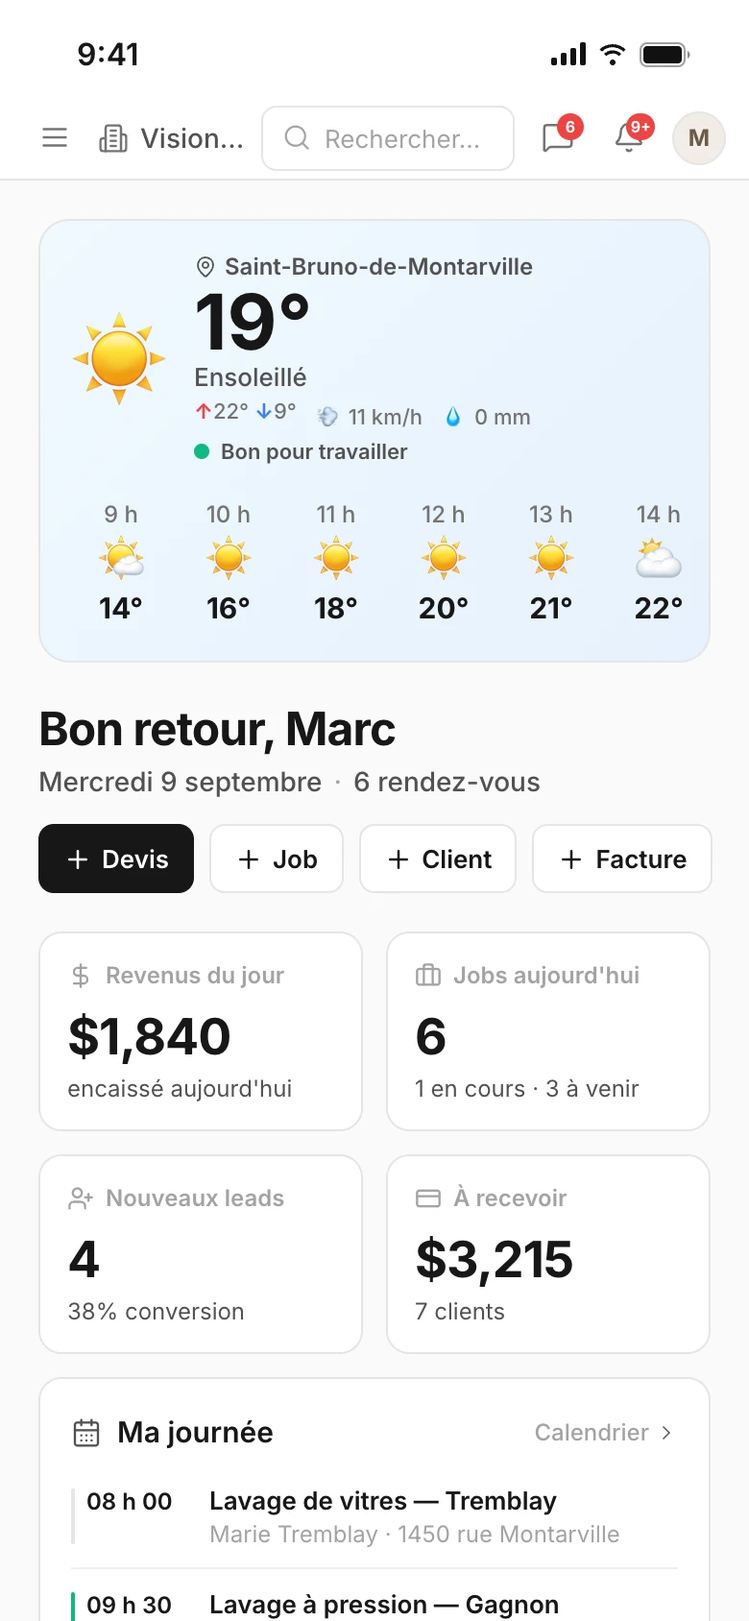
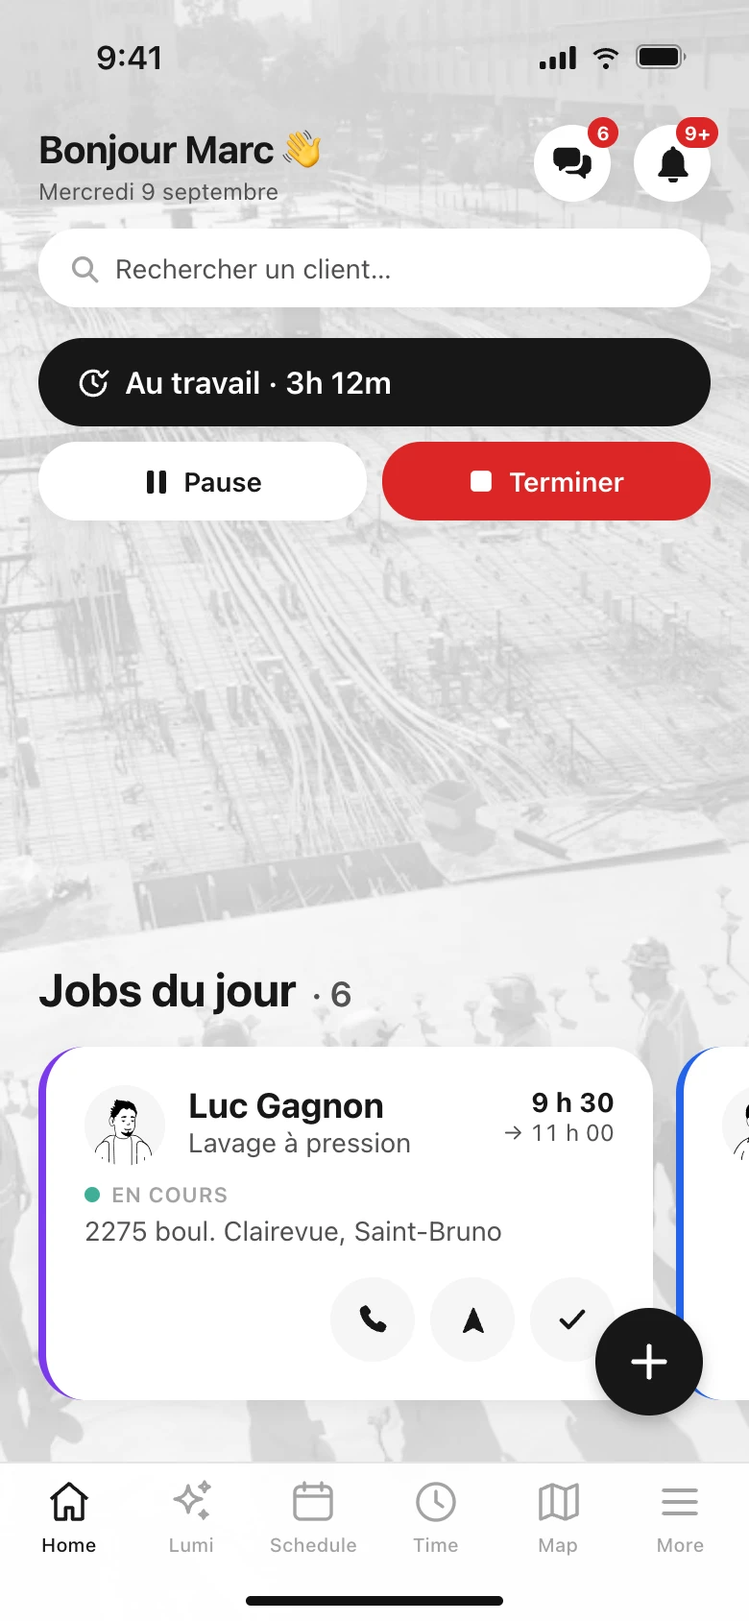
landing : le téléphone du hero affiche l'Accueil de l'app iOS (Expo), plus la version web mobile
Maquette reconstruite depuis lume-mobile-app (mobile/src/app/(app)/(tabs)/index.tsx
et _layout.tsx) : fond chantier N&B, Bonjour + bulles, recherche client, pointage
Au travail / Pause / Terminer, carrousel Jobs du jour, bouton +, onglets iOS.

diff --git a/scripts/marketing/apercu-accueil-mobile.html b/scripts/marketing/apercu-accueil-mobile.html
@@ -1,189 +1,169 @@
 <!doctype html>
-<!-- Maquette de l'écran Accueil en largeur téléphone, pour le mockup iPhone du hero
-     de la landing (public/landing/apercu-accueil-mobile.webp). Mêmes données fictives
-     que apercu-accueil.html ; reprend le rendu < 768 px de CrmWorkspace (barre du haut
-     d'App.tsx, HomeWeatherStrip empilé, HomeHero, HomeKpiStrip 2×2, HomeAgendaCard).
-     Régénérer : capture Playwright en viewport 390×844, deviceScaleFactor 2
-     (→ 780×1688), puis WebP qualité 90. -->
+<!-- Maquette de l'écran Accueil de l'APP iOS (Expo / React Native, dépôt
+     lume-mobile-app, branche mobile-app : mobile/src/app/(app)/(tabs)/index.tsx
+     + (tabs)/_layout.tsx), mode technicien, pour le mockup iPhone du hero de la
+     landing (public/landing/apercu-accueil-mobile.webp).
+     Reprend fidèlement : fond chantier N&B à 20 %, « Bonjour Marc 👋 » + date,
+     bulles Messages / Notifications, recherche client, pointage « Au travail »
+     (Pause / Terminer), « Jobs du jour » en carrousel de cartes (82 % de largeur,
+     bande d'état à gauche, avatar DiceBear, actions rondes), bouton + flottant,
+     barre d'onglets iOS. Palette = mobile/tailwind.config.js. Les SF Symbols
+     sont redessinés en SVG. Données fictives (Vision Lavage).
+     Régénérer : capture Playwright en viewport 390×844 (iPhone 15),
+     deviceScaleFactor 2 (→ 780×1688), puis WebP qualité 90. -->
 <html lang="fr">
 <head>
 <meta charset="utf-8">
-<link href="https://fonts.googleapis.com/css2?family=Inter:wght@400;500;600;700;800&display=swap" rel="stylesheet">
 <style>
   * { box-sizing: border-box; margin: 0; padding: 0; }
-  html, body { width: 390px; height: 844px; overflow: hidden; background: #fafafa; }
-  body { font-family: Inter, -apple-system, system-ui, sans-serif; color: #171717; -webkit-font-smoothing: antialiased; position: relative; }
+  html, body { width: 390px; height: 844px; overflow: hidden; background: #FAFAFA; }
+  body { font-family: -apple-system, "SF Pro Text", system-ui, sans-serif; color: #171717; -webkit-font-smoothing: antialiased; position: relative; }
   svg { display: block; }
-  .ic { width: 17px; height: 17px; stroke: currentColor; fill: none; stroke-width: 1.75; stroke-linecap: round; stroke-linejoin: round; }
 
-  /* Barre d'état iOS (l'îlot dynamique est dessiné par le cadre du téléphone) */
-  .status { height: 50px; background: #fff; display: flex; align-items: center; justify-content: space-between; padding: 6px 30px 0 40px; font-size: 16px; font-weight: 600; }
-  .status .r { display: flex; align-items: center; gap: 6px; }
+  /* Fond chantier N&B, opacité 0.2 (FIELD_BG) */
+  .bg { position: absolute; inset: 0; background: url("https://images.unsplash.com/photo-1541888946425-d81bb19240f5?auto=format&fit=crop&w=1200&q=50&sat=-100") center / cover no-repeat; opacity: .2; filter: grayscale(1); }
 
-  /* Barre du haut — header h-11 de App.tsx */
-  .top { height: 44px; background: #fff; border-bottom: 1px solid #e5e5e5; display: flex; align-items: center; gap: 8px; padding: 0 12px 0 14px; color: #737373; }
-  .office { display: flex; align-items: center; gap: 6px; min-width: 0; flex: 1; color: #525252; font-size: 14px; font-weight: 500; }
-  .office span { white-space: nowrap; overflow: hidden; text-overflow: ellipsis; }
-  .search { width: 132px; height: 34px; border: 1px solid #e5e5e5; border-radius: 8px; display: flex; align-items: center; gap: 7px; padding: 0 10px; font-size: 13px; color: #a3a3a3; flex: none; background: #fff; }
-  .tb { position: relative; padding: 6px; flex: none; }
-  .tb i { position: absolute; top: 2px; right: 1px; min-width: 14px; height: 14px; border-radius: 7px; background: #ef4444; color: #fff; font-style: normal; font-size: 8px; font-weight: 700; display: grid; place-items: center; padding: 0 2px; }
-  .avatar { width: 28px; height: 28px; border-radius: 50%; background: #f1ece6; border: 1px solid #e5e5e5; display: grid; place-items: center; font-weight: 700; font-size: 12px; color: #6b5a48; flex: none; }
+  /* Barre d'état iOS (insets.top = 59 sur iPhone 15 ; l'îlot est dessiné par le cadre) */
+  .status { position: relative; height: 59px; display: flex; align-items: center; justify-content: space-between; padding: 0 32px 0 50px; font-size: 17px; font-weight: 600; }
+  .status .r { display: flex; align-items: center; gap: 7px; }
 
-  .page { padding: 20px 20px 0; }
+  .scroll { position: relative; }
+  .top { display: flex; align-items: center; gap: 12px; padding: 4px 20px 0; }
+  .top .who { flex: 1; min-width: 0; }
+  .top h1 { font-size: 20px; font-weight: 700; letter-spacing: -.01em; }
+  .top .date { font-size: 12px; color: #525252; }
+  .round { position: relative; width: 40px; height: 40px; border-radius: 20px; background: #fff; display: grid; place-items: center; box-shadow: 0 2px 8px rgba(0,0,0,.06); }
+  .round i { position: absolute; right: -4px; top: -4px; height: 16px; min-width: 16px; padding: 0 4px; border-radius: 8px; background: #DC2626; color: #fff; font-style: normal; font-size: 10px; font-weight: 700; display: grid; place-items: center; }
 
-  /* Météo — HomeWeatherStrip, empilé sous md */
-  .wx { border-radius: 16px; border: 1px solid #e5e5e5; background: linear-gradient(135deg, #f0f9ff 0%, rgba(219,234,254,.6) 100%); padding: 16px 16px 12px; }
-  .wx-now { display: flex; align-items: center; gap: 14px; }
-  .wx-big { font-size: 50px; line-height: 1; }
-  .wx-city { display: flex; align-items: center; gap: 4px; font-size: 12px; font-weight: 600; color: #525252; }
-  .wx-temp { font-size: 40px; font-weight: 700; line-height: 1; margin-top: 2px; }
-  .wx-lab { font-size: 13px; font-weight: 500; color: #525252; }
-  .wx-stats { display: flex; gap: 10px; font-size: 11px; color: #737373; font-weight: 500; margin-top: 3px; }
-  .wx-ok { display: flex; align-items: center; gap: 6px; font-size: 11px; font-weight: 600; color: #525252; margin-top: 3px; }
-  .wx-ok i { width: 8px; height: 8px; border-radius: 50%; background: #10b981; }
-  .wx-hours { display: flex; gap: 4px; margin-top: 12px; margin-right: -16px; overflow: hidden; }
-  .wx-h { min-width: 52px; display: flex; flex-direction: column; align-items: center; gap: 4px; padding: 6px 4px; }
-  .wx-h small { font-size: 12px; color: #737373; font-weight: 500; }
-  .wx-h span { font-size: 24px; line-height: 1; }
-  .wx-h b { font-size: 15px; }
+  .search { margin: 12px 20px 0; display: flex; align-items: center; gap: 8px; border-radius: 20px; background: #fff; padding: 12px 16px; font-size: 14px; color: #525252; box-shadow: 0 2px 6px rgba(0,0,0,.04); }
 
-  /* HomeHero */
-  .hero { margin-top: 20px; }
-  h1 { font-size: 24px; font-weight: 700; letter-spacing: -.02em; }
-  .sub { font-size: 14px; color: #525252; font-weight: 500; margin-top: 4px; }
-  .sub span { color: #a3a3a3; margin: 0 6px; }
-  .acts { display: flex; gap: 8px; margin-top: 14px; }
-  .btn { height: 36px; padding: 0 12px; border-radius: 8px; border: 1px solid #e5e5e5; background: #fff; font-size: 13px; font-weight: 600; display: flex; align-items: center; gap: 5px; }
-  .btn.dark { background: #171717; color: #fff; border-color: #171717; }
-  .btn .ic { width: 15px; height: 15px; stroke-width: 2; }
+  .clock { margin: 16px 20px 0; display: flex; flex-direction: column; gap: 8px; }
+  .clock .on { display: flex; align-items: center; gap: 8px; border-radius: 24px; background: #171717; color: #fff; padding: 14px 20px; font-size: 16px; font-weight: 600; box-shadow: 0 4px 12px rgba(0,0,0,.06); }
+  .clock .row { display: flex; gap: 8px; }
+  .clock .b { flex: 1; display: flex; align-items: center; justify-content: center; gap: 8px; border-radius: 20px; padding: 12px 0; font-size: 14px; font-weight: 600; background: #fff; box-shadow: 0 2px 6px rgba(0,0,0,.04); }
+  .clock .b.stop { background: #DC2626; color: #fff; box-shadow: none; }
 
-  /* HomeKpiStrip — grid-cols-2 */
-  .kpis { display: grid; grid-template-columns: 1fr 1fr; gap: 12px; margin-top: 20px; }
-  .card { background: #fff; border: 1px solid #e5e5e5; border-radius: 12px; }
-  .kpi { padding: 14px; }
-  .kpi .l { display: flex; align-items: center; gap: 6px; font-size: 12px; color: #a3a3a3; font-weight: 600; white-space: nowrap; }
-  .kpi .l .ic { width: 14px; height: 14px; stroke-width: 2; }
-  .kpi .v { font-size: 26px; font-weight: 700; margin-top: 12px; letter-spacing: -.02em; line-height: 1; }
-  .kpi .s { font-size: 12px; color: #525252; margin-top: 6px; white-space: nowrap; }
+  .ttl { display: flex; align-items: baseline; gap: 8px; padding: 230px 20px 12px; }
+  .ttl b { font-size: 24px; font-weight: 700; letter-spacing: -.01em; }
+  .ttl span { font-size: 18px; font-weight: 600; color: #525252; }
 
-  /* HomeAgendaCard */
-  .day { margin-top: 12px; padding: 18px 16px 6px; }
-  .ch { display: flex; align-items: center; gap: 8px; font-size: 15px; font-weight: 600; margin-bottom: 8px; }
-  .ch .ic { width: 16px; height: 16px; color: #525252; }
-  .ch a { margin-left: auto; font-size: 12px; color: #a3a3a3; font-weight: 500; display: flex; align-items: center; gap: 3px; }
-  .job { position: relative; display: grid; grid-template-columns: 54px 1fr; gap: 10px; padding: 10px 4px 10px 8px; }
-  .job + .job { border-top: 1px solid #f0f0f0; }
-  .job::before { content: ""; position: absolute; left: 0; top: 12px; bottom: 12px; width: 2px; border-radius: 2px; background: #e5e5e5; }
-  .job.now::before { background: #10b981; }
-  .job .t { font-size: 12px; font-weight: 600; padding-top: 1px; white-space: nowrap; }
-  .job .n { font-size: 13px; font-weight: 600; white-space: nowrap; overflow: hidden; text-overflow: ellipsis; }
-  .job .a { font-size: 12px; color: #a3a3a3; margin-top: 2px; white-space: nowrap; overflow: hidden; text-overflow: ellipsis; }
+  .carousel { display: flex; gap: 12px; padding: 4px 20px; }
+  .card { flex: none; width: 320px; border-radius: 24px; background: #fff; padding: 20px; border-left: 4px solid #7C3AED; box-shadow: 0 3px 10px rgba(0,0,0,.05); }
+  .card.sched { border-left-color: #2563EB; }
+  .card .h { display: flex; align-items: flex-start; gap: 12px; }
+  .card .av { width: 42px; height: 42px; border-radius: 21px; overflow: hidden; background: #f5f5f5; flex: none; }
+  .card .av img { width: 42px; height: 42px; display: block; }
+  .card .nm { flex: 1; min-width: 0; }
+  .card .nm b { display: block; font-size: 18px; font-weight: 700; white-space: nowrap; overflow: hidden; text-overflow: ellipsis; }
+  .card .nm span { display: block; font-size: 14px; color: #525252; white-space: nowrap; overflow: hidden; text-overflow: ellipsis; }
+  .card .tm { text-align: right; font-variant-numeric: tabular-nums; }
+  .card .tm b { display: block; font-size: 14px; font-weight: 700; }
+  .card .tm span { display: block; font-size: 12px; color: #525252; }
+  .card .st { margin-top: 8px; display: flex; align-items: center; gap: 6px; font-size: 11px; font-weight: 600; letter-spacing: .03em; text-transform: uppercase; color: #A3A3A3; }
+  .card .st i { width: 8px; height: 8px; border-radius: 4px; background: #3FAF97; }
+  .card .ad { margin-top: 4px; font-size: 14px; color: #525252; white-space: nowrap; overflow: hidden; text-overflow: ellipsis; }
+  .card .acts { margin-top: 16px; display: flex; justify-content: flex-end; gap: 8px; }
+  .cb { width: 44px; height: 44px; border-radius: 22px; background: #F5F5F5; display: grid; place-items: center; }
+
+  .fab { position: absolute; right: 24px; bottom: 107px; width: 56px; height: 56px; border-radius: 28px; background: #171717; display: grid; place-items: center; box-shadow: 0 4px 8px rgba(0,0,0,.2); }
+
+  /* Barre d'onglets iOS (expo-router Tabs) */
+  .tabs { position: absolute; left: 0; right: 0; bottom: 0; height: 83px; background: rgba(255,255,255,.96); border-top: 1px solid #E5E5E5; display: flex; padding: 7px 4px 0; }
+  .tab { flex: 1; display: flex; flex-direction: column; align-items: center; gap: 3px; color: #A3A3A3; font-size: 10px; font-weight: 500; }
+  .tab.on { color: #171717; }
+  .tab svg { width: 26px; height: 26px; }
+  .home-ind { position: absolute; left: 50%; bottom: 8px; width: 134px; height: 5px; margin-left: -67px; border-radius: 3px; background: #111; }
 </style>
 </head>
 <body>
+<div class="bg"></div>
 
 <div class="status">
   <span>9:41</span>
   <div class="r">
-    <svg width="18" height="12" viewBox="0 0 18 12"><rect x="0" y="8" width="3" height="4" rx="1" fill="#111"/><rect x="5" y="5.5" width="3" height="6.5" rx="1" fill="#111"/><rect x="10" y="3" width="3" height="9" rx="1" fill="#111"/><rect x="15" y="0" width="3" height="12" rx="1" fill="#111"/></svg>
-    <svg width="16" height="12" viewBox="0 0 16 12" fill="#111"><path d="M8 2.6c2.2 0 4.2.9 5.7 2.3l1.1-1.1A9.6 9.6 0 0 0 8 1 9.6 9.6 0 0 0 1.2 3.8l1.1 1.1A8 8 0 0 1 8 2.6zm0 3.2c1.3 0 2.5.5 3.4 1.4l1.1-1.1A6.4 6.4 0 0 0 8 4.2c-1.8 0-3.4.7-4.5 1.9l1.1 1.1c.9-.9 2.1-1.4 3.4-1.4zM8 9a1.5 1.5 0 1 0 0 3 1.5 1.5 0 0 0 0-3z"/></svg>
+    <svg width="19" height="12" viewBox="0 0 19 12"><rect x="0" y="8" width="3.2" height="4" rx="1" fill="#111"/><rect x="5.2" y="5.5" width="3.2" height="6.5" rx="1" fill="#111"/><rect x="10.4" y="3" width="3.2" height="9" rx="1" fill="#111"/><rect x="15.6" y="0" width="3.2" height="12" rx="1" fill="#111"/></svg>
+    <svg width="17" height="12" viewBox="0 0 16 12" fill="#111"><path d="M8 2.6c2.2 0 4.2.9 5.7 2.3l1.1-1.1A9.6 9.6 0 0 0 8 1 9.6 9.6 0 0 0 1.2 3.8l1.1 1.1A8 8 0 0 1 8 2.6zm0 3.2c1.3 0 2.5.5 3.4 1.4l1.1-1.1A6.4 6.4 0 0 0 8 4.2c-1.8 0-3.4.7-4.5 1.9l1.1 1.1c.9-.9 2.1-1.4 3.4-1.4zM8 9a1.5 1.5 0 1 0 0 3 1.5 1.5 0 0 0 0-3z"/></svg>
     <svg width="27" height="13" viewBox="0 0 27 13"><rect x=".5" y=".5" width="23" height="12" rx="3.5" fill="none" stroke="#111" opacity=".4"/><rect x="2" y="2" width="20" height="9" rx="2" fill="#111"/><path d="M25 4.5v4c.8-.3 1.3-1.1 1.3-2s-.5-1.7-1.3-2z" fill="#111" opacity=".5"/></svg>
   </div>
 </div>
 
-<!-- Barre du haut -->
-<header class="top">
-  <div class="tb" style="color:#737373"><svg class="ic lucide lucide-menu" viewBox="0 0 24 24"><path d="M4 12h16"/><path d="M4 18h16"/><path d="M4 6h16"/></svg></div>
-  <div class="office">
-    <svg class="ic lucide lucide-building-2" viewBox="0 0 24 24" style="width:16px;height:16px;flex:none;color:#737373"><path d="M6 22V4a2 2 0 0 1 2-2h8a2 2 0 0 1 2 2v18Z"/><path d="M6 12H4a2 2 0 0 0-2 2v6a2 2 0 0 0 2 2h2"/><path d="M18 9h2a2 2 0 0 1 2 2v9a2 2 0 0 1-2 2h-2"/><path d="M10 6h4"/><path d="M10 10h4"/><path d="M10 14h4"/><path d="M10 18h4"/></svg>
-    <span>Vision Lavage</span>
+<div class="scroll">
+  <!-- Salutation + bulles -->
+  <div class="top">
+    <div class="who">
+      <h1>Bonjour Marc 👋</h1>
+      <div class="date">Mercredi 9 septembre</div>
+    </div>
+    <div class="round">
+      <!-- bubble.left.and.bubble.right.fill -->
+      <svg width="20" height="18" viewBox="0 0 24 22" fill="#171717"><path d="M3.5 1h10A3.5 3.5 0 0 1 17 4.5v5A3.5 3.5 0 0 1 13.5 13H8.2l-3.6 2.9c-.5.4-1.1 0-1.1-.6V13A3.5 3.5 0 0 1 0 9.5v-5A3.5 3.5 0 0 1 3.5 1z"/><path d="M18.6 6.3A3.5 3.5 0 0 1 24 9.3v5a3.5 3.5 0 0 1-3.5 3.5v2.3c0 .6-.6 1-1.1.6L15.8 17.8h-5.3a3.5 3.5 0 0 1-3.2-2.1h6.2a5.4 5.4 0 0 0 5.1-5.4z"/></svg>
+      <i>6</i>
+    </div>
+    <div class="round">
+      <!-- bell.fill -->
+      <svg width="17" height="19" viewBox="0 0 20 22" fill="#171717"><path d="M10 0c.8 0 1.4.6 1.4 1.4v.6a6.6 6.6 0 0 1 5.3 6.5v4.2c0 1 .4 2 1.1 2.7l1.2 1.3c.7.7.2 1.9-.8 1.9H1.8c-1 0-1.5-1.2-.8-1.9l1.2-1.3c.7-.7 1.1-1.7 1.1-2.7V8.5A6.6 6.6 0 0 1 8.6 2v-.6C8.6.6 9.2 0 10 0z"/><path d="M7 19.6h6a3 3 0 0 1-6 0z"/></svg>
+      <i>9+</i>
+    </div>
   </div>
-  <div class="search"><svg class="ic lucide lucide-search" viewBox="0 0 24 24" style="width:15px;height:15px"><circle cx="11" cy="11" r="8"/><path d="m21 21-4.3-4.3"/></svg>Rechercher…</div>
-  <div class="tb"><svg class="ic lucide lucide-message-square" viewBox="0 0 24 24"><path d="M22 17a2 2 0 0 1-2 2H6.828a2 2 0 0 0-1.414.586l-2.202 2.202A.71.71 0 0 1 2 21.286V5a2 2 0 0 1 2-2h16a2 2 0 0 1 2 2z"/></svg><i>6</i></div>
-  <div class="tb"><svg class="ic lucide lucide-bell" viewBox="0 0 24 24"><path d="M10.268 21a2 2 0 0 0 3.464 0"/><path d="M3.262 15.326A1 1 0 0 0 4 17h16a1 1 0 0 0 .74-1.673C19.41 13.956 18 12.499 18 8A6 6 0 0 0 6 8c0 4.499-1.411 5.956-2.738 7.326"/></svg><i>9+</i></div>
-  <div class="avatar">M</div>
-</header>
 
-<main class="page">
-  <!-- Météo -->
-  <section class="wx">
-    <div class="wx-now">
-      <div class="wx-big">☀</div>
-      <div>
-        <div class="wx-city"><svg class="ic lucide lucide-map-pin" viewBox="0 0 24 24" style="width:12px;height:12px"><path d="M20 10c0 4.993-5.539 10.193-7.399 11.799a1 1 0 0 1-1.202 0C9.539 20.193 4 14.993 4 10a8 8 0 0 1 16 0"/><circle cx="12" cy="10" r="3"/></svg>Saint-Bruno-de-Montarville</div>
-        <div class="wx-temp">19°</div>
-        <div class="wx-lab">Ensoleillé</div>
-        <div class="wx-stats"><span><b style="color:#ef4444">↑</b>22° <b style="color:#3b82f6">↓</b>9°</span><span>💨 11 km/h</span><span>💧 0 mm</span></div>
-        <div class="wx-ok"><i></i>Bon pour travailler</div>
+  <!-- Recherche client -->
+  <div class="search">
+    <svg width="16" height="16" viewBox="0 0 24 24" fill="none" stroke="#A3A3A3" stroke-width="2.6" stroke-linecap="round"><circle cx="10.5" cy="10.5" r="7"/><path d="m16 16 5.5 5.5"/></svg>
+    Rechercher un client…
+  </div>
+
+  <!-- Pointage -->
+  <div class="clock">
+    <div class="on">
+      <!-- clock.badge.checkmark -->
+      <svg width="17" height="17" viewBox="0 0 24 24" fill="none" stroke="#fff" stroke-width="2.2" stroke-linecap="round" stroke-linejoin="round"><path d="M21 12a9 9 0 1 1-5.3-8.2"/><path d="M12 7v5l3 2"/><path d="m16.5 5.5 2 2 4-4"/></svg>
+      Au travail · 3h 12m
+    </div>
+    <div class="row">
+      <div class="b"><svg width="13" height="14" viewBox="0 0 12 14" fill="#171717"><rect x="1" y="1" width="3.6" height="12" rx="1.2"/><rect x="7.4" y="1" width="3.6" height="12" rx="1.2"/></svg>Pause</div>
+      <div class="b stop"><svg width="13" height="13" viewBox="0 0 12 12" fill="#fff"><rect x="1" y="1" width="10" height="10" rx="2"/></svg>Terminer</div>
+    </div>
+  </div>
+
+  <!-- Jobs du jour -->
+  <div class="ttl"><b>Jobs du jour</b><span>· 6</span></div>
+  <div class="carousel">
+    <div class="card">
+      <div class="h">
+        <div class="av"><img src="https://api.dicebear.com/9.x/notionists/png?seed=Luc%20Gagnon&size=84&backgroundColor=f5f5f5&radius=50" alt=""></div>
+        <div class="nm"><b>Luc Gagnon</b><span>Lavage à pression</span></div>
+        <div class="tm"><b>9 h 30</b><span>→ 11 h 00</span></div>
+      </div>
+      <div class="st"><i></i>En cours</div>
+      <div class="ad">2275 boul. Clairevue, Saint-Bruno</div>
+      <div class="acts">
+        <div class="cb"><!-- phone.fill --><svg width="18" height="18" viewBox="0 0 24 24" fill="#171717"><path d="M6.6 2.3c.6-.3 1.3-.1 1.7.4l2.2 3c.4.6.4 1.4-.1 1.9L9 9c1.2 2.5 3.4 4.7 5.9 5.9l1.4-1.4c.5-.5 1.3-.6 1.9-.1l3 2.2c.5.4.7 1.1.4 1.7l-.9 2c-.5 1.1-1.7 1.8-2.9 1.6C10.4 19.8 4.2 13.6 3.1 6.2c-.2-1.2.5-2.4 1.6-2.9z"/></svg></div>
+        <div class="cb"><!-- location.north.fill --><svg width="17" height="17" viewBox="0 0 24 24" fill="#171717"><path d="M12 2.5c.3 0 .6.2.7.5l7 17.2c.3.7-.5 1.4-1.2 1L12 17.6l-6.5 3.6c-.7.4-1.5-.3-1.2-1L11.3 3c.1-.3.4-.5.7-.5z"/></svg></div>
+        <div class="cb"><!-- checkmark --><svg width="18" height="18" viewBox="0 0 24 24" fill="none" stroke="#171717" stroke-width="2.8" stroke-linecap="round" stroke-linejoin="round"><path d="m4.5 12.5 5 5 10-11"/></svg></div>
       </div>
     </div>
-    <div class="wx-hours">
-      <div class="wx-h"><small>9 h</small><span>🌤</span><b>14°</b></div>
-      <div class="wx-h"><small>10 h</small><span>☀</span><b>16°</b></div>
-      <div class="wx-h"><small>11 h</small><span>☀</span><b>18°</b></div>
-      <div class="wx-h"><small>12 h</small><span>☀</span><b>20°</b></div>
-      <div class="wx-h"><small>13 h</small><span>☀</span><b>21°</b></div>
-      <div class="wx-h"><small>14 h</small><span>⛅</span><b>22°</b></div>
-      <div class="wx-h"><small>15 h</small><span>⛅</span><b>22°</b></div>
-    </div>
-  </section>
-
-  <!-- Salutation + actions rapides -->
-  <div class="hero">
-    <h1>Bon retour, Marc</h1>
-    <div class="sub">Mercredi 9 septembre<span>·</span>6 rendez-vous</div>
-    <div class="acts">
-      <div class="btn dark"><svg class="ic" viewBox="0 0 24 24"><path d="M5 12h14"/><path d="M12 5v14"/></svg>Devis</div>
-      <div class="btn"><svg class="ic" viewBox="0 0 24 24"><path d="M5 12h14"/><path d="M12 5v14"/></svg>Job</div>
-      <div class="btn"><svg class="ic" viewBox="0 0 24 24"><path d="M5 12h14"/><path d="M12 5v14"/></svg>Client</div>
-      <div class="btn"><svg class="ic" viewBox="0 0 24 24"><path d="M5 12h14"/><path d="M12 5v14"/></svg>Facture</div>
+    <div class="card sched">
+      <div class="h">
+        <div class="av"><img src="https://api.dicebear.com/9.x/notionists/png?seed=Julie%20Bouchard&size=84&backgroundColor=f5f5f5&radius=50" alt=""></div>
+        <div class="nm"><b>Julie Bouchard</b><span>Gouttières</span></div>
+        <div class="tm"><b>11 h 15</b><span>→ 12 h 00</span></div>
+      </div>
     </div>
   </div>
+</div>
 
-  <!-- KPI -->
-  <div class="kpis">
-    <div class="card kpi">
-      <div class="l"><svg class="ic lucide lucide-dollar-sign" viewBox="0 0 24 24"><line x1="12" x2="12" y1="2" y2="22"/><path d="M17 5H9.5a3.5 3.5 0 0 0 0 7h5a3.5 3.5 0 0 1 0 7H6"/></svg>Revenus du jour</div>
-      <div class="v">$1,840</div>
-      <div class="s">encaissé aujourd'hui</div>
-    </div>
-    <div class="card kpi">
-      <div class="l"><svg class="ic lucide lucide-briefcase" viewBox="0 0 24 24"><path d="M16 20V4a2 2 0 0 0-2-2h-4a2 2 0 0 0-2 2v16"/><rect width="20" height="14" x="2" y="6" rx="2"/></svg>Jobs aujourd'hui</div>
-      <div class="v">6</div>
-      <div class="s">1 en cours · 3 à venir</div>
-    </div>
-    <div class="card kpi">
-      <div class="l"><svg class="ic lucide lucide-user-plus" viewBox="0 0 24 24"><path d="M16 21v-2a4 4 0 0 0-4-4H6a4 4 0 0 0-4 4v2"/><circle cx="9" cy="7" r="4"/><line x1="19" x2="19" y1="8" y2="14"/><line x1="22" x2="16" y1="11" y2="11"/></svg>Nouveaux leads</div>
-      <div class="v">4</div>
-      <div class="s">38% conversion</div>
-    </div>
-    <div class="card kpi">
-      <div class="l"><svg class="ic lucide lucide-credit-card" viewBox="0 0 24 24"><rect width="20" height="14" x="2" y="5" rx="2"/><line x1="2" x2="22" y1="10" y2="10"/></svg>À recevoir</div>
-      <div class="v">$3,215</div>
-      <div class="s">7 clients</div>
-    </div>
-  </div>
+<!-- Bouton + flottant -->
+<div class="fab"><svg width="24" height="24" viewBox="0 0 24 24" fill="none" stroke="#fff" stroke-width="2.6" stroke-linecap="round"><path d="M12 4v16M4 12h16"/></svg></div>
 
-  <!-- Ma journée -->
-  <section class="card day">
-    <div class="ch"><svg class="ic lucide lucide-calendar-days" viewBox="0 0 24 24"><path d="M8 2v4"/><path d="M16 2v4"/><rect width="18" height="18" x="3" y="4" rx="2"/><path d="M3 10h18"/><path d="M8 14h.01"/><path d="M12 14h.01"/><path d="M16 14h.01"/><path d="M8 18h.01"/><path d="M12 18h.01"/><path d="M16 18h.01"/></svg>Ma journée<a>Calendrier <svg class="ic" viewBox="0 0 24 24" style="width:12px;height:12px"><path d="m9 18 6-6-6-6"/></svg></a></div>
-    <div class="job">
-      <div class="t">08 h 00</div>
-      <div style="min-width:0"><div class="n">Lavage de vitres — Tremblay</div><div class="a">Marie Tremblay · 1450 rue Montarville</div></div>
-    </div>
-    <div class="job now">
-      <div class="t">09 h 30</div>
-      <div style="min-width:0"><div class="n">Lavage à pression — Gagnon</div><div class="a">Luc Gagnon · 2275 boul. Clairevue</div></div>
-    </div>
-    <div class="job">
-      <div class="t">11 h 15</div>
-      <div style="min-width:0"><div class="n">Gouttières — Bouchard</div><div class="a">Julie Bouchard · 88 rue de la Rabastalière</div></div>
-    </div>
-    <div class="job">
-      <div class="t">13 h 00</div>
-      <div style="min-width:0"><div class="n">Vitres + moustiquaires — Côté</div><div class="a">André Côté · 1730 rue Roberval</div></div>
-    </div>
-  </section>
-</main>
+<!-- Onglets : Home · Lumi · Schedule · Time · Map · More -->
+<nav class="tabs">
+  <div class="tab on"><svg viewBox="0 0 26 26" fill="none" stroke="currentColor" stroke-width="1.8" stroke-linejoin="round"><path d="M3.5 11.5 13 3.5l9.5 8"/><path d="M6 9.6V21a1 1 0 0 0 1 1h4.2v-6h3.6v6H19a1 1 0 0 0 1-1V9.6"/></svg>Home</div>
+  <div class="tab"><svg viewBox="0 0 26 26" fill="none" stroke="currentColor" stroke-width="1.7" stroke-linejoin="round"><path d="M11 4.5c.8 4.6 2.4 6.2 7 7-4.6.8-6.2 2.4-7 7-.8-4.6-2.4-6.2-7-7 4.6-.8 6.2-2.4 7-7z"/><path d="M19.5 2.5c.3 1.7.9 2.3 2.6 2.6-1.7.3-2.3.9-2.6 2.6-.3-1.7-.9-2.3-2.6-2.6 1.7-.3 2.3-.9 2.6-2.6zM19 17.5c.25 1.3.7 1.75 2 2-1.3.25-1.75.7-2 2-.25-1.3-.7-1.75-2-2 1.3-.25 1.75-.7 2-2z"/></svg>Lumi</div>
+  <div class="tab"><svg viewBox="0 0 26 26" fill="none" stroke="currentColor" stroke-width="1.7"><rect x="3.5" y="5" width="19" height="17" rx="3"/><path d="M3.5 10h19"/><path d="M8.5 3v4M17.5 3v4" stroke-linecap="round"/></svg>Schedule</div>
+  <div class="tab"><svg viewBox="0 0 26 26" fill="none" stroke="currentColor" stroke-width="1.7" stroke-linecap="round"><circle cx="13" cy="13" r="9.5"/><path d="M13 7.5V13l3.5 2.5"/></svg>Time</div>
+  <div class="tab"><svg viewBox="0 0 26 26" fill="none" stroke="currentColor" stroke-width="1.7" stroke-linejoin="round"><path d="M3.5 6.5 9.5 4l7 2.5 6-2.5v15.5l-6 2.5-7-2.5-6 2.5z"/><path d="M9.5 4v15.5M16.5 6.5V22"/></svg>Map</div>
+  <div class="tab"><svg viewBox="0 0 26 26" fill="none" stroke="currentColor" stroke-width="1.9" stroke-linecap="round"><path d="M4.5 7h17M4.5 13h17M4.5 19h17"/></svg>More</div>
+  <div class="home-ind"></div>
+</nav>
 </body>
 </html>

diff --git a/src/pages/marketing/HomeApercu.tsx b/src/pages/marketing/HomeApercu.tsx
@@ -170,8 +170,8 @@ export default function HomeApercu() {
               />
             ))}
           </div>
-          {/* Téléphone posé sur la droite du screenshot : même écran Accueil, rendu
-              mobile (maquette scripts/marketing/apercu-accueil-mobile.html). */}
+          {/* Téléphone posé sur la droite du screenshot : écran Accueil de l'app iOS
+              (maquette scripts/marketing/apercu-accueil-mobile.html). */
           <div className="ha-phone">
             <i className="ha-btn-side ha-btn-power" aria-hidden="true" />
             <i className="ha-btn-side ha-btn-vol1" aria-hidden="true" />
